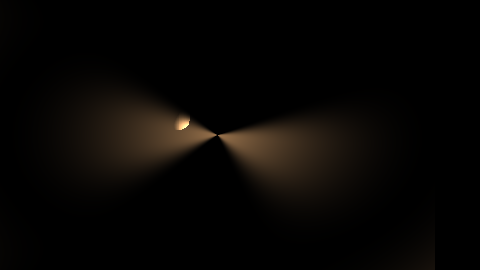
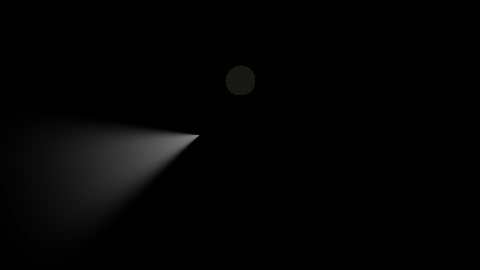
New LightingSystem that renders light in one pass ... i think needs to be discontinued because shadows must be handled differently

Changed region(s): [[0.1562, 0.3556, 0.7188, 0.7407], [0.4688, 0.237, 0.5312, 0.3556]]

diff --git a/light.py b/light.py
@@ -2,38 +2,40 @@ import moderngl
 from array import array
 import math
 
-class PointLight:
-    def __init__(self, ctx, x, y, radius, color=(1.0, 1.0, 1.0), intensity=1.0, volumetric_intensity=.5, angle=0, angular_width=.4):
-        self.x = x
-        self.y = y
-        self.radius = radius
-        self.color = color
-        self.intensity = intensity
-        self.angle = angle
-        self.angular_width = angular_width
-        self.volumetric_intensity = volumetric_intensity
+class LightingSystem:
 
-        self.program = ctx.program(vertex_shader=vert_shader_light, fragment_shader=frag_shader_light)
+    def __init__(self, ctx):
+
+        self.lights = []
+        self.global_light = None
 
 
-    def get_area_of_effect(self):
-        x_min = max(0, self.x - self.radius)
-        y_min = max(0, self.y - self.radius)
-        x_max = min(320, self.x + self.radius)
-        y_max = min(240, self.y + self.radius)
-        return (x_min, y_min, x_max - x_min, y_max - y_min)
+        try:
+            self.program = ctx.program(vertex_shader=vert_shader_light, fragment_shader=frag_shader_angled_light)
+        except Exception as e:
+            print(f"Lighting shader compilation error: {e}")
+            raise
+    
+
+    def addGlobalLight(self, color=(1, .9, .8), intensity=.1):
+        self.global_light = self.GlobalLight(color=color, intensity=intensity)
+
+    def addPointLight(self, x, y, radius, color=(1.0, 1.0, 1.0), intensity=1.0, volumetric_intensity=.5, angle=0, angular_width=.4):
+        self.lights.append(
+            self.PointLight(x, y, radius, color=color, intensity=intensity, volumetric_intensity=volumetric_intensity, angle=angle, angular_width=angular_width)
+            )
 
     def get_quad_vertices(self):
-        x, y, w, h = self.get_area_of_effect()
-        x1 = (x / 320.0) * 2.0 - 1.0
-        x2 = ((x + w) / 320.0) * 2.0 - 1.0
-        y1 = -((y + h) / 240.0) * 2.0 + 1.0
-        y2 = -(y / 240.0) * 2.0 + 1.0
+        # Map the full display (480x270) to OpenGL NDC (-1 to 1)
+        x1 = -1.0  # Left edge of the screen
+        x2 = 1.0   # Right edge of the screen
+        y1 = -1.0  # Bottom edge of the screen
+        y2 = 1.0   # Top edge of the screen
         return array('f', [
-            x1, y2, 0.0, 0.0,
-            x2, y2, 1.0, 0.0,
-            x1, y1, 0.0, 1.0,
-            x2, y1, 1.0, 1.0,
+            x1, y2, 0.0, 0.0,  # Top-left
+            x2, y2, 1.0, 0.0,  # Top-right
+            x1, y1, 0.0, 1.0,  # Bottom-left
+            x2, y1, 1.0, 1.0,  # Bottom-right
         ])
 
     def render(self, ctx):
@@ -41,18 +43,62 @@ class PointLight:
         ctx.blend_func = (moderngl.ONE, moderngl.ONE)
         light_quad_buffer = ctx.buffer(data=self.get_quad_vertices())
         render_object_light = ctx.vertex_array(self.program, [(light_quad_buffer, '2f 2f', 'vert', 'texcoord')])
-        self.program['light_tint'] = self.color
-        self.program['intensity'] = self.intensity
-        self.program['volumetric_intensity'] = self.volumetric_intensity
-        self.program['light_dir'] = (math.cos(self.angle), math.sin(self.angle))
-        if not self.angular_width:
-            self.program['do_angular_falloff'] = 0
+
+        # pass params
+
+        if self.global_light:
+            self.program['global_light_tint'] = self.global_light.color
+            self.program['global_intensity'] = self.global_light.intensity
         else:
-            self.program['do_angular_falloff'] = 1
-            self.program['angular_width'] = self.angular_width
+            self.program['global_light_tint'] = (0, 0, 0)
+            self.program['global_intensity'] = 0
+
+        max_point_lights = 10  # Match MAX_POINT_LIGHTS in shader
+        
+        # Collect light data
+        light_pos = [(light.x / 480.0, light.y / 270.0) for light in self.lights]
+        light_tint = [light.color for light in self.lights]
+        intensity = [light.intensity for light in self.lights]
+        volumetric_intensity = [light.volumetric_intensity for light in self.lights]
+        light_dir = [(math.cos(light.angle), math.sin(light.angle)) for light in self.lights]
+        do_angular_falloff = [1 if light.angular_width else 0 for light in self.lights]
+        angular_width = [light.angular_width for light in self.lights]
+
+        # Pad arrays to max_point_lights
+        self.program['light_pos'] = light_pos + [(0, 0)] * (max_point_lights - len(self.lights))
+        self.program['light_tint'] = light_tint + [(0, 0, 0)] * (max_point_lights - len(self.lights))
+        self.program['intensity'] = intensity + [0] * (max_point_lights - len(self.lights))
+        self.program['volumetric_intensity'] = volumetric_intensity + [0] * (max_point_lights - len(self.lights))
+        self.program['light_dir'] = light_dir + [(0, 0)] * (max_point_lights - len(self.lights))
+        self.program['do_angular_falloff'] = do_angular_falloff + [0] * (max_point_lights - len(self.lights))
+        self.program['angular_width'] = angular_width + [0] * (max_point_lights - len(self.lights))
+
+        self.program['point_light_count'] = len(self.lights)
         render_object_light.render(mode=moderngl.TRIANGLE_STRIP)
         light_quad_buffer.release()
         ctx.disable(moderngl.BLEND)
+
+
+
+    class PointLight:
+
+        def __init__(self, x, y, radius, color=(1.0, 1.0, 1.0), intensity=1.0, volumetric_intensity=.5, angle=0, angular_width=.4):
+            self.x = x
+            self.y = y
+            self.radius = radius
+            self.color = color
+            self.intensity = intensity
+            self.angle = angle
+            self.angular_width = angular_width
+            self.volumetric_intensity = volumetric_intensity
+
+
+    class GlobalLight:
+        def __init__(self, color=(1.0, 1.0, 1.0), intensity=1.0):
+            self.color = color
+            self.intensity = intensity
+
+
 
 
 
@@ -68,50 +114,86 @@ void main() {
 }
 '''
 
-frag_shader_light = '''
+frag_shader_angled_light = '''
 #version 330 core
-uniform vec2 light_dir;
-uniform float do_angular_falloff;
-uniform float angular_width;
 
-uniform vec3 light_tint;
-uniform float intensity;
-uniform float volumetric_intensity;
+#define aspect_ratio 1.777
+#define MAX_POINT_LIGHTS 10
+#define PI 3.1415
+
+uniform float global_intensity;
+uniform vec3 global_light_tint;
+
+uniform vec2 light_dir[MAX_POINT_LIGHTS];
+uniform float do_angular_falloff[MAX_POINT_LIGHTS];
+uniform float angular_width[MAX_POINT_LIGHTS];
+
+uniform vec3 light_tint[MAX_POINT_LIGHTS];
+uniform float intensity[MAX_POINT_LIGHTS];
+uniform float volumetric_intensity[MAX_POINT_LIGHTS];
+
+uniform vec2 light_pos[MAX_POINT_LIGHTS];
+
+uniform int point_light_count;
 
 uniform sampler2D color_tex;
 uniform sampler2D normal_tex;
+
 in vec2 uvs;
 out vec4 f_color;
 void main() {
     
-    vec2 dir_to_light = normalize(vec2(0.5 - uvs.x, uvs.y - 0.5)); //weird upside down fixing
-    float dist = distance(vec2(0.5), uvs) * 2;
-    float radialFalloff = pow(1 - dist, 2);
-    float angularFalloff = do_angular_falloff == 0 ? 1.0 : smoothstep(angular_width, 1.0, dot(light_dir, dir_to_light));
+    //vec4 f_color = vec4(0);
 
-    vec4 normal_sample = texture(normal_tex, uvs);
-    vec2 normal = normal_sample.rg * 2.0 - 1.0;
-    float normalFalloff = max(0.0, dot(normal, dir_to_light));
-
-    float final_intensity = intensity * radialFalloff * angularFalloff;
-    vec3 light_color = light_tint * final_intensity;
-
-
-    // Use alpha to mask the output
-    //if (normal_sample.b == 0) {
-        // objects
     vec3 color_sample = texture(color_tex, uvs).rgb;
+    vec4 normal_sample = texture(normal_tex, uvs);
+    vec2 normal = vec2(normal_sample.r * 2.0 - 1.0, (normal_sample.g * 2.0 - 1.0) * -1.0);
 
-    f_color = vec4(light_color * color_sample * normalFalloff, 1.0);
-        
-    //    return;
-    //}
-    // add volumetric outside
+    // Apply global light
+    if (global_intensity > 0.0) {
+        f_color += vec4(color_sample * global_light_tint * global_intensity, 1.0);
+    }
 
-    //f_color = vec4(color_sample * light_color, 1.0);
-    f_color += vec4(light_color * volumetric_intensity, 1.0);
-    //f_color = vec4(dir_to_light, 0.0, 1.0);
-    //f_color = vec4(light_color, 1.0);
+    for (int i = 0; i < point_light_count; i++) {
 
+        // Adjust UV coordinates for aspect ratio
+        vec2 adjusted_uvs = vec2(uvs.x, uvs.y * (1.0 / aspect_ratio));
+        vec2 adjusted_light_pos = vec2(light_pos[i].x, light_pos[i].y * (1.0 / aspect_ratio));
+
+        vec2 dir_to_light = normalize(adjusted_light_pos - adjusted_uvs);
+        float dist = distance(adjusted_light_pos, adjusted_uvs) * 2;
+        float radialFalloff = pow(max(0, 1 - dist), 2);
+        float angularFalloff = do_angular_falloff[i] == 0 ? 1 : smoothstep(1 - angular_width[i] / PI, 1, dot(light_dir[i], dir_to_light));
+
+        float normalFalloff = max(0.0, dot(normal, dir_to_light));
+
+        float final_intensity = intensity[i] * radialFalloff * angularFalloff;
+        vec3 light_color = light_tint[i] * final_intensity;
+
+        // for objects
+        f_color += vec4(light_color * color_sample * normalFalloff, 1);
+
+        //add volumetric
+        f_color += vec4(light_color * volumetric_intensity[i], 1);
+
+    }
+
+}
+'''
+
+frag_shader_global_light = '''
+#version 330 core
+
+uniform vec3 light_tint;
+uniform float intensity;
+
+uniform sampler2D color_tex;
+
+in vec2 uvs;
+out vec4 f_color;
+void main() {
+
+    vec3 color_sample = texture(color_tex, uvs).rgb;
+    f_color = vec4(color_sample * light_tint * intensity, 0.0);
 }
 '''

diff --git a/main.py b/main.py
@@ -5,7 +5,7 @@ import moderngl
 import math
 
 
-from light import PointLight
+from light import *
 
 pygame.init()
 
@@ -15,12 +15,14 @@ pygame.display.gl_set_attribute(pygame.GL_CONTEXT_MINOR_VERSION, 3)
 pygame.display.gl_set_attribute(pygame.GL_CONTEXT_PROFILE_MASK, pygame.GL_CONTEXT_PROFILE_CORE)
 pygame.display.gl_set_attribute(pygame.GL_CONTEXT_FORWARD_COMPATIBLE_FLAG, 1)
 
-pixel_size = 3 # 4 for full hd, 8 for 4k
+pixel_size = 4 # 4 for full hd, 8 for 4k
 
 display_width, display_height = 480, 270
 screen_width, screen_height = display_width * pixel_size, display_height * pixel_size
 
 print(f'screen size of {screen_width} x {screen_height}')
+
+#screen = pygame.display.set_mode((0, 0), pygame.OPENGL | pygame.DOUBLEBUF | pygame.FULLSCREEN)
 
 screen = pygame.display.set_mode((screen_width, screen_height), pygame.OPENGL | pygame.DOUBLEBUF)
 display = pygame.Surface((display_width, display_height))
@@ -126,22 +128,32 @@ sphere_color_sprite = pygame.image.load("sphere.png")
 sphere_color_sprite = pygame.transform.scale(sphere_color_sprite, (size,size))
 
 sphere_normal_sprite = pygame.image.load("sphere_normal.png")
-sphere_normal_sprite = pygame.transform.scale(sphere_normal_sprite, (size,size))
+sphere_normal_sprite = pygame.transform.scale(sphere_normal_sprite, (size,size)) #wack
+#sphere_normal_sprite = pygame.transform.flip(sphere_normal_sprite, False, True)  # Flip vertically
+
+lightingSystem = LightingSystem(ctx)
 
 # Light over rectangle
-light = PointLight(ctx=ctx, x=140, y=130, radius=150, color=(1.0, 0.75, 0.5), intensity=2, volumetric_intensity=.3,angle=0,angular_width=.6)
-light2 = PointLight(ctx=ctx, x=140, y=130, radius=150, color=(1.0, 0.75, 0.5), intensity=2, volumetric_intensity=.3,angle=3.14,angular_width=.6)
+#light = PointLight(ctx=ctx, x=240, y=270, radius=150, color=(1.0, 0.75, 0.5), intensity=1, volumetric_intensity=.3,angle=0,angular_width=0.3,)
+#light2 = PointLight(ctx=ctx, x=240, y=270, radius=150, color=(1.0, 0.75, 0.5), intensity=1, volumetric_intensity=.3,angle=0,angular_width=0.3,)
+#light3 = GlobalLight(ctx=ctx, color=(1.0, 0.75, 0.5), intensity=.3)
+
+lightingSystem.addGlobalLight(color=(1, .9, .8), intensity=.1)
+
+lightingSystem.addPointLight(200, 135, 100)
 
 font = pygame.font.SysFont("arial", 24)
 
 while True:
 
+    keys = pygame.key.get_pressed()
+
     for event in pygame.event.get():
-        if event.type == pygame.QUIT:
+        if event.type == pygame.QUIT or keys[pygame.K_q]:
             pygame.quit()
             sys.exit()
 
-    light2.angle += .01
+    lightingSystem.lights[0].angle += .01
 
     display.fill((0, 0, 0))  # Clear low-res surface
     color_buffer.fill((0, 0, 0))  # Clear low-res surface
@@ -156,9 +168,9 @@ while True:
     #print(mspt)
 
     # Blit sprite color and normals
-    sprite_pos = (180, 100)  # Center at ~16,12 in 32x24
-    color_buffer.blit(sphere_color_sprite, (sprite_pos[0], sprite_pos[1]))
-    normal_buffer.blit(sphere_normal_sprite, (sprite_pos[0], sprite_pos[1]))
+    sprite_pos = (240, 80)  # Center at ~16,12 in 32x24
+    color_buffer.blit(sphere_color_sprite, (sprite_pos[0] - size/2, sprite_pos[1] - size/2))
+    normal_buffer.blit(sphere_normal_sprite, (sprite_pos[0] - size/2, sprite_pos[1] - size/2))
 
     # First pass
 
@@ -183,18 +195,14 @@ while True:
     # bind color and normal buffers for light pass
     color_fbo_texture.use(0)
     normal_fbo_texture.use(1)
-    light.program['color_tex'] = 0
-    light.program['normal_tex'] = 1
+    lightingSystem.program['color_tex'] = 0
+    lightingSystem.program['normal_tex'] = 1
 
 
     # Second pass: Apply light shader to fbo
     fbo.use()
     fbo.clear(0.0, 0.0, 0.0, 1.0)
-    light.render(ctx)
-
-    
-    fbo.use()
-    light2.render(ctx)
+    lightingSystem.render(ctx)
     
 
     pygame.image.save(normal_buffer, "normal.png")
